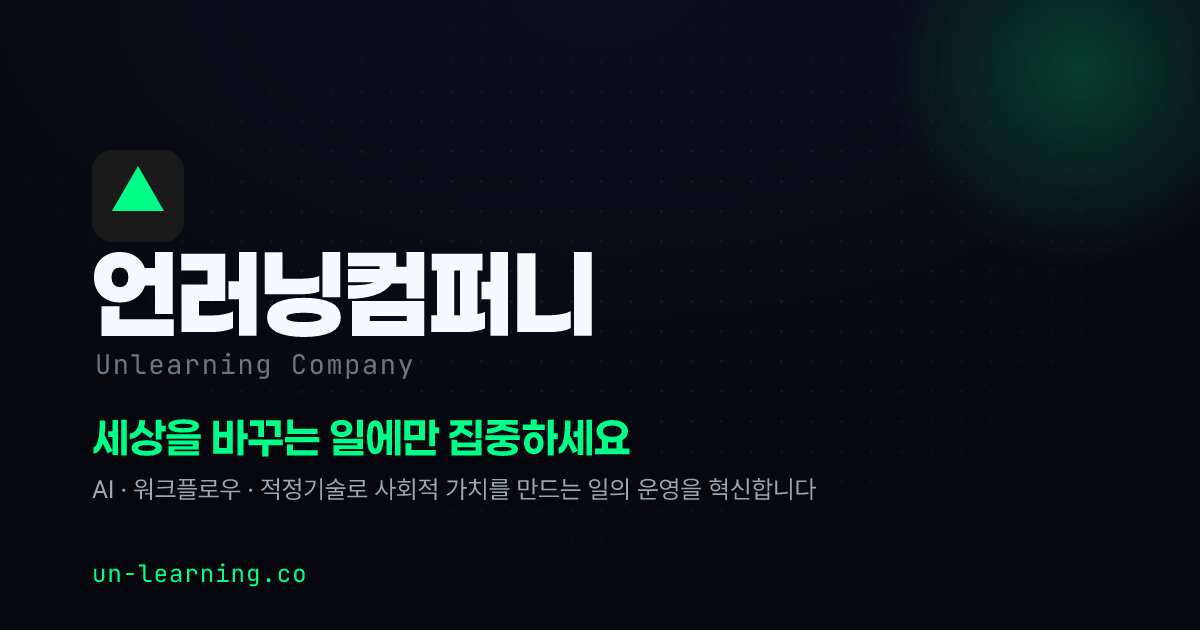
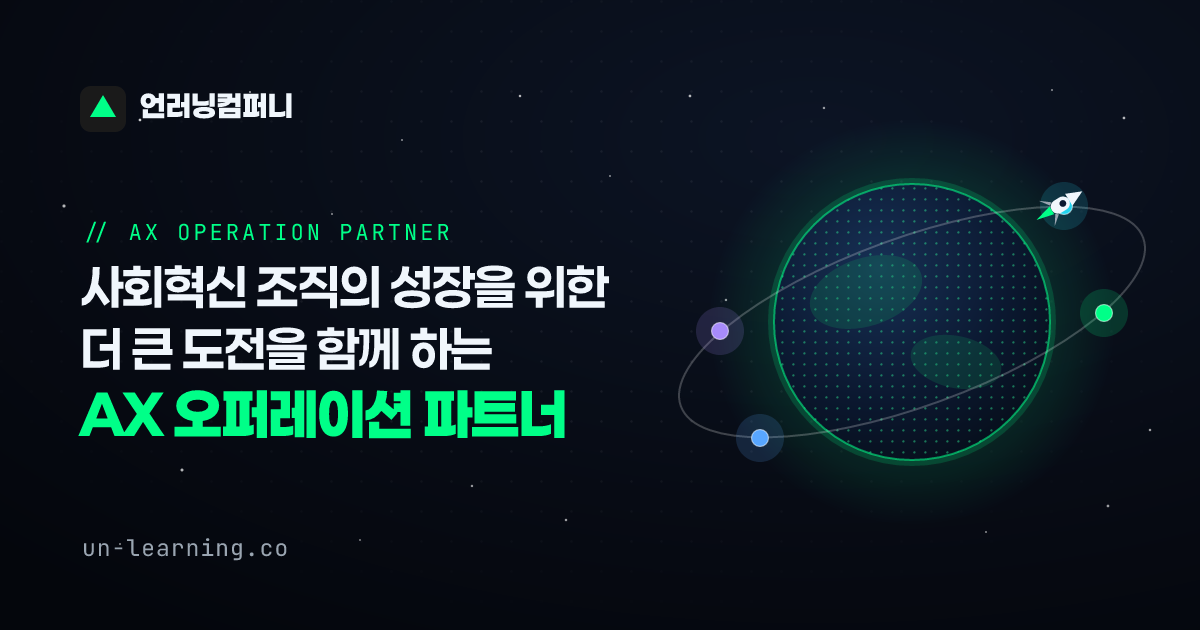
og 카드 개선: 제목·이미지 교체
- og:title을 '언러닝컴퍼니 | 임팩트 프로젝트 에이전시'로 변경
- og-image를 work 섹션 성장 궤도 비주얼 + 'AX 오퍼레이션 파트너' 카피로 재디자인

diff --git a/index.html b/index.html
@@ -5,7 +5,7 @@
   <meta name="viewport" content="width=device-width, initial-scale=1.0" />
   <title>언러닝컴퍼니 | Unlearning Company</title>
   <meta name="description" content="세상을 바꾸는 일에만 집중하세요. 낡은 업무 방식을 함께 바꾸는 언러닝컴퍼니입니다." />
-  <meta property="og:title" content="언러닝컴퍼니 | Unlearning Company" />
+  <meta property="og:title" content="언러닝컴퍼니 | 임팩트 프로젝트 에이전시" />
   <meta property="og:description" content="임팩트 조직이 미션에만 몰입할 수 있도록, 곁에서 일하는 팀" />
   <meta property="og:type" content="website" />
   <meta property="og:url" content="https://un-learning.co" />